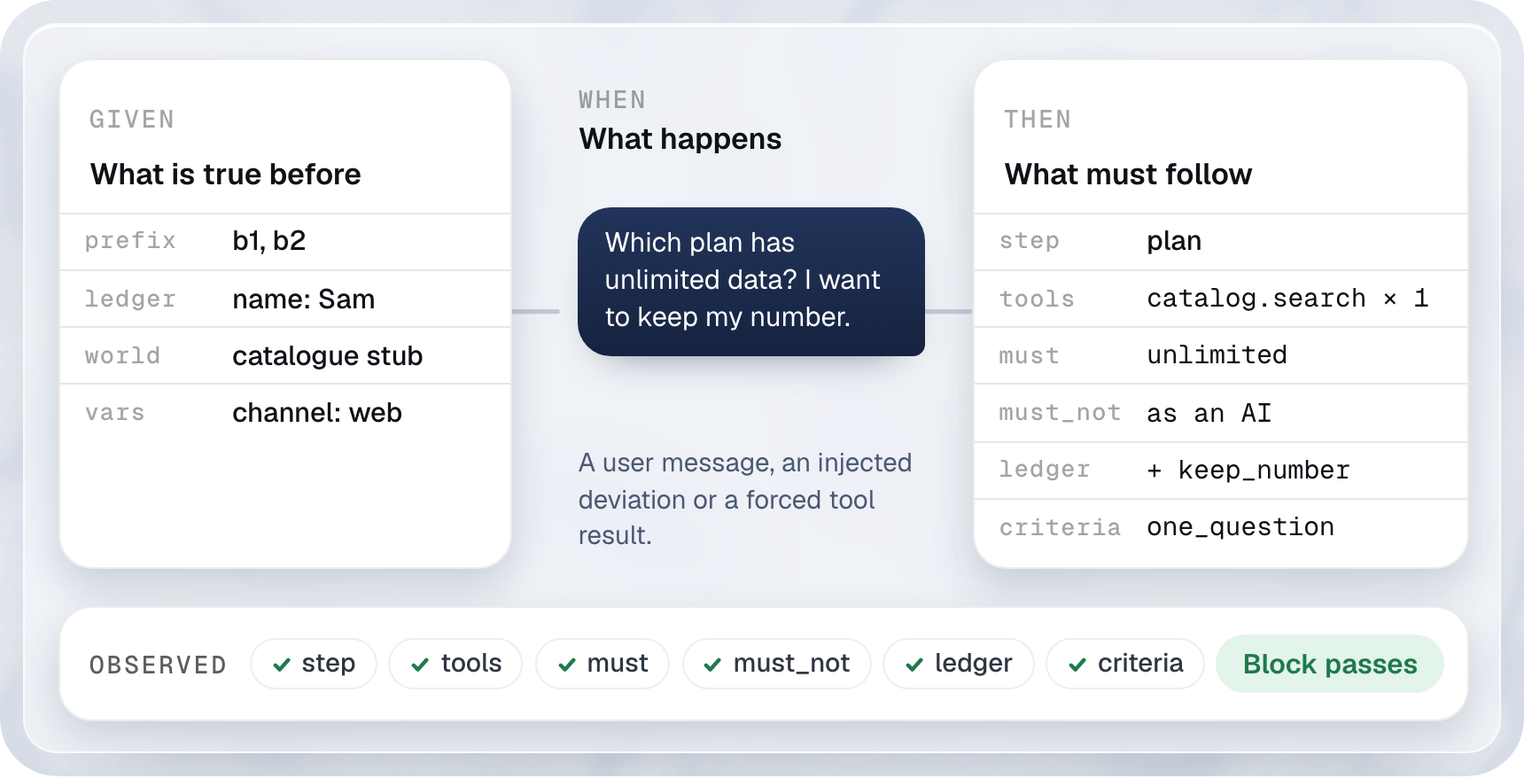
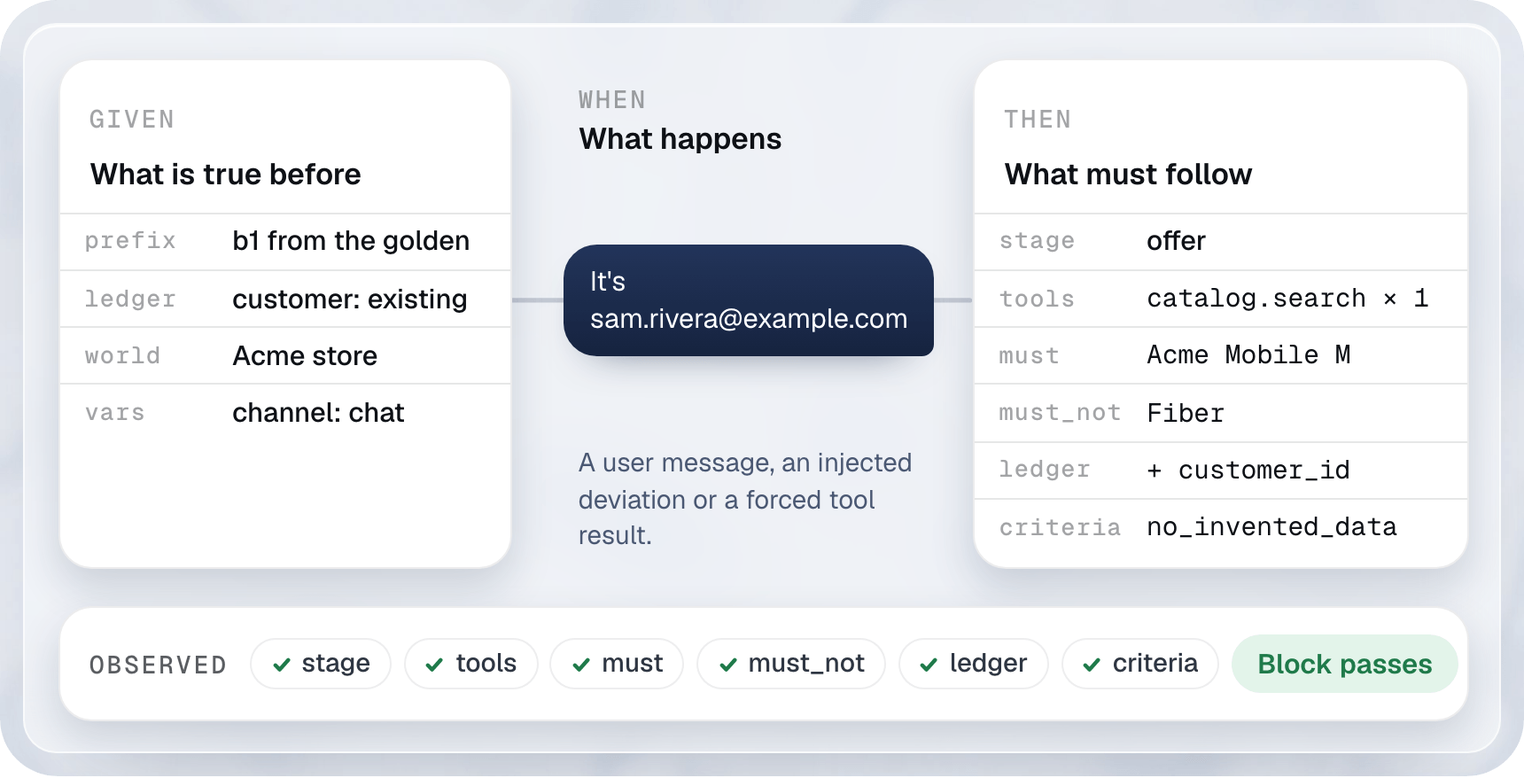
README: match the Acme example and the stage field now on main
The spec snippet is now the first two blocks of the Acme plan upgrade
spec; it passes spec lint --strict on main. Main renamed the expect
field step to stage, so the prose and the figures say stage. The block
figure shows that spec's second block, the agent kinds figure shows the
Acme agent's real tool call and reply at block four and the price sheet
task's real files, and the modes figure uses the real golden.

diff --git a/.github/readme/src/kinds.html b/.github/readme/src/kinds.html
@@ -5,11 +5,12 @@
 <title>driftbench: one block model for both kinds of agent</title>
 <link rel="stylesheet" href="brand.css">
 <style>
-  /* Left: a conversational block. Right: a code interpreter task step. Same checks, read the same way. */
+  /* Left: block 4 of examples/acme/specs/conversations/plan-upgrade.yaml, with the Acme agent's real tool call and reply.
+     Right: the first block of examples/acme/specs/tasks/price-sheet.yaml, drawn from its expect. */
   #frame { width: 640px; height: 352px; }
   .side-k { top: 18px; }
   .side-t { position: absolute; top: 34px; font: 600 12.5px/1.25 var(--nx-sans); color: var(--nx-ink); }
-  .tool { left: 16px; top: 118px; gap: 8px; }
+  .tool { left: 16px; top: 104px; gap: 8px; }
   .tool .m { font: 500 11px/1 var(--nx-mono); }
   .tool .ok { color: var(--nx-done-ink); font-weight: 600; }
   .run { left: 336px; top: 100px; width: 270px; }
@@ -35,33 +36,33 @@
     <span class="nx-kind nx-kind--ink side-k" style="left:16px">Conversational agent</span>
     <span class="nx-kind side-k" style="left:268px">b4</span>
     <div class="side-t" style="left:16px">A block is one exchange</div>
-    <div class="nx-ibub nx-ibub--me" style="right:326px;top:64px">Can I keep my number if I switch?</div>
-    <span class="nx-ipill nx-ipill--flat tool"><span class="m">porting.check</span><span class="ok">eligible</span></span>
-    <div class="nx-ibub nx-ibub--agent" style="left:16px;top:154px;width:214px">Yes. Your number moves with you. Shall I add it to the order?</div>
+    <div class="nx-ibub nx-ibub--me" style="right:326px;top:62px">Confirm</div>
+    <span class="nx-ipill nx-ipill--flat tool"><span class="m">order.create</span><span class="ok">ORD-7B883C</span></span>
+    <div class="nx-ibub nx-ibub--agent" style="left:16px;top:140px;width:262px">Done. Your order ORD-7B883C is placed: Acme Mobile L starts on your next billing cycle. Is there anything else I can help with?</div>
     <div class="nx-ill-panel checks" style="left:14px">
       <span class="nx-kind">Checked</span>
       <div class="row">
-        <span class="chk"><svg viewBox="0 0 10 10" fill="none" stroke="currentColor" stroke-width="1.8" stroke-linecap="round" stroke-linejoin="round"><path d="M2 5.3l2 2L8 2.8"/></svg>step</span>
+        <span class="chk"><svg viewBox="0 0 10 10" fill="none" stroke="currentColor" stroke-width="1.8" stroke-linecap="round" stroke-linejoin="round"><path d="M2 5.3l2 2L8 2.8"/></svg>stage</span>
         <span class="chk"><svg viewBox="0 0 10 10" fill="none" stroke="currentColor" stroke-width="1.8" stroke-linecap="round" stroke-linejoin="round"><path d="M2 5.3l2 2L8 2.8"/></svg>tool call</span>
-        <span class="chk"><svg viewBox="0 0 10 10" fill="none" stroke="currentColor" stroke-width="1.8" stroke-linecap="round" stroke-linejoin="round"><path d="M2 5.3l2 2L8 2.8"/></svg>language</span>
-        <span class="chk"><svg viewBox="0 0 10 10" fill="none" stroke="currentColor" stroke-width="1.8" stroke-linecap="round" stroke-linejoin="round"><path d="M2 5.3l2 2L8 2.8"/></svg>ledger</span>
-        <span class="chk"><svg viewBox="0 0 10 10" fill="none" stroke="currentColor" stroke-width="1.8" stroke-linecap="round" stroke-linejoin="round"><path d="M2 5.3l2 2L8 2.8"/></svg>one question</span>
+        <span class="chk"><svg viewBox="0 0 10 10" fill="none" stroke="currentColor" stroke-width="1.8" stroke-linecap="round" stroke-linejoin="round"><path d="M2 5.3l2 2L8 2.8"/></svg>guard</span>
+        <span class="chk"><svg viewBox="0 0 10 10" fill="none" stroke="currentColor" stroke-width="1.8" stroke-linecap="round" stroke-linejoin="round"><path d="M2 5.3l2 2L8 2.8"/></svg>order id</span>
+        <span class="chk"><svg viewBox="0 0 10 10" fill="none" stroke="currentColor" stroke-width="1.8" stroke-linecap="round" stroke-linejoin="round"><path d="M2 5.3l2 2L8 2.8"/></svg>end state</span>
       </div>
     </div>
 
     <!-- code interpreter agent -->
     <span class="nx-kind nx-kind--ink side-k" style="left:336px">Code interpreter agent</span>
-    <span class="nx-kind side-k" style="left:560px">step 2</span>
+    <span class="nx-kind side-k" style="left:590px">b1</span>
     <div class="side-t" style="left:336px">A block is one task step</div>
-    <div class="nx-ibub nx-ibub--me" style="right:14px;top:64px;white-space:nowrap">Build the Q3 price sheet from plans.csv.</div>
-    <div class="nx-node run"><span class="nx-node__ico"><svg viewBox="0 0 24 24" fill="none" stroke="currentColor" stroke-width="1.8" stroke-linecap="round" stroke-linejoin="round"><path d="M13 2 4 14h7l-1 8 9-12h-7z"/></svg></span><span class="nx-node__kind">Skill: spreadsheets</span><span class="nx-node__title">python build_sheet.py</span><span class="nx-node__detail">exit 0</span></div>
-    <div class="nx-ill-panel files"><div class="add">+ q3_prices.xlsx</div><div>plans.csv, notes.md untouched</div></div>
+    <div class="nx-ibub nx-ibub--me" style="right:14px;top:62px;white-space:nowrap">Build a price sheet from catalog.csv.</div>
+    <div class="nx-node run"><span class="nx-node__ico"><svg viewBox="0 0 24 24" fill="none" stroke="currentColor" stroke-width="1.8" stroke-linecap="round" stroke-linejoin="round"><path d="M13 2 4 14h7l-1 8 9-12h-7z"/></svg></span><span class="nx-node__kind">Skill: xlsx</span><span class="nx-node__title">runs code</span><span class="nx-node__detail">exit 0, 10 commands at most</span></div>
+    <div class="nx-ill-panel files"><div class="add">+ out/acme-price-sheet.xlsx</div><div>catalog.csv, README.txt untouched</div></div>
     <div class="nx-ill-panel checks" style="left:320px">
       <span class="nx-kind">Checked</span>
       <div class="row">
-        <span class="chk"><svg viewBox="0 0 10 10" fill="none" stroke="currentColor" stroke-width="1.8" stroke-linecap="round" stroke-linejoin="round"><path d="M2 5.3l2 2L8 2.8"/></svg>cells and formulas</span>
+        <span class="chk"><svg viewBox="0 0 10 10" fill="none" stroke="currentColor" stroke-width="1.8" stroke-linecap="round" stroke-linejoin="round"><path d="M2 5.3l2 2L8 2.8"/></svg>sheets and cells</span>
         <span class="chk"><svg viewBox="0 0 10 10" fill="none" stroke="currentColor" stroke-width="1.8" stroke-linecap="round" stroke-linejoin="round"><path d="M2 5.3l2 2L8 2.8"/></svg>workspace diff</span>
-        <span class="chk"><svg viewBox="0 0 10 10" fill="none" stroke="currentColor" stroke-width="1.8" stroke-linecap="round" stroke-linejoin="round"><path d="M2 5.3l2 2L8 2.8"/></svg>exit code</span>
+        <span class="chk"><svg viewBox="0 0 10 10" fill="none" stroke="currentColor" stroke-width="1.8" stroke-linecap="round" stroke-linejoin="round"><path d="M2 5.3l2 2L8 2.8"/></svg>yearly formula</span>
         <span class="chk"><svg viewBox="0 0 10 10" fill="none" stroke="currentColor" stroke-width="1.8" stroke-linecap="round" stroke-linejoin="round"><path d="M2 5.3l2 2L8 2.8"/></svg>no destructive op</span>
       </div>
     </div>

diff --git a/.github/readme/src/block.html b/.github/readme/src/block.html
@@ -5,7 +5,8 @@
 <title>driftbench: a block is a unit test</title>
 <link rel="stylesheet" href="brand.css">
 <style>
-  /* One block read left to right: Given, When, Then, and what was observed. */
+  /* One block read left to right: Given, When, Then, and what was observed. The block is the second block of
+     examples/acme/specs/conversations/plan-upgrade.yaml; the Then rows are fields of its expect. */
   #frame { width: 640px; height: 326px; }
   .panel { top: 14px; height: 214px; padding: 12px 0 0; }
   .panel .head { padding: 0 12px 8px; }
@@ -28,36 +29,36 @@
 <div id="frame" class="nx-ill scene">
   <div class="nx-ill__glass">
     <svg class="nx-edges" viewBox="0 0 620 306">
-      <path class="nx-edge" d="M204 121 L224 121"/>
-      <path class="nx-edge" d="M378 121 L398 121"/>
+      <path id="edge-in" class="nx-edge" d=""/>
+      <path id="edge-out" class="nx-edge" d=""/>
     </svg>
 
     <div class="nx-ill-panel panel given">
       <div class="head"><span class="nx-kind nx-kind--static">Given</span><div class="t">What is true before</div></div>
-      <div class="nx-irow"><span class="k">prefix</span><span class="v">b1, b2</span></div>
-      <div class="nx-irow"><span class="k">ledger</span><span class="v">name: Sam</span></div>
-      <div class="nx-irow"><span class="k">world</span><span class="v">catalogue stub</span></div>
-      <div class="nx-irow"><span class="k">vars</span><span class="v">channel: web</span></div>
+      <div class="nx-irow"><span class="k">prefix</span><span class="v">b1 from the golden</span></div>
+      <div class="nx-irow"><span class="k">ledger</span><span class="v">customer: existing</span></div>
+      <div class="nx-irow"><span class="k">world</span><span class="v">Acme store</span></div>
+      <div class="nx-irow"><span class="k">vars</span><span class="v">channel: chat</span></div>
     </div>
 
     <span class="nx-kind when-k">When</span>
     <div class="when-t">What happens</div>
-    <div class="nx-ibub nx-ibub--me" style="left:232px;top:76px;width:146px">Which plan has unlimited data? I want to keep my number.</div>
+    <div id="ask" class="nx-ibub nx-ibub--me" style="left:226px;top:92px;width:fit-content">It's<br>sam.rivera@example.com</div>
     <div class="note">A user message, an injected deviation or a forced tool result.</div>
 
     <div class="nx-ill-panel panel then">
       <div class="head"><span class="nx-kind nx-kind--static">Then</span><div class="t">What must follow</div></div>
-      <div class="nx-irow"><span class="k">step</span><span class="v">plan</span></div>
+      <div class="nx-irow"><span class="k">stage</span><span class="v">offer</span></div>
       <div class="nx-irow"><span class="k">tools</span><span class="v m">catalog.search × 1</span></div>
-      <div class="nx-irow"><span class="k">must</span><span class="v m">unlimited</span></div>
-      <div class="nx-irow"><span class="k">must_not</span><span class="v m">as an AI</span></div>
-      <div class="nx-irow"><span class="k">ledger</span><span class="v m">+ keep_number</span></div>
-      <div class="nx-irow"><span class="k">criteria</span><span class="v m">one_question</span></div>
+      <div class="nx-irow"><span class="k">must</span><span class="v m">Acme Mobile M</span></div>
+      <div class="nx-irow"><span class="k">must_not</span><span class="v m">Fiber</span></div>
+      <div class="nx-irow"><span class="k">ledger</span><span class="v m">+ customer_id</span></div>
+      <div class="nx-irow"><span class="k">criteria</span><span class="v m">no_invented_data</span></div>
     </div>
 
     <div class="nx-ill-panel obs">
       <span class="nx-kind nx-kind--ink">Observed</span>
-      <span class="chk"><svg viewBox="0 0 10 10" fill="none" stroke="currentColor" stroke-width="1.8" stroke-linecap="round" stroke-linejoin="round"><path d="M2 5.3l2 2L8 2.8"/></svg>step</span>
+      <span class="chk"><svg viewBox="0 0 10 10" fill="none" stroke="currentColor" stroke-width="1.8" stroke-linecap="round" stroke-linejoin="round"><path d="M2 5.3l2 2L8 2.8"/></svg>stage</span>
       <span class="chk"><svg viewBox="0 0 10 10" fill="none" stroke="currentColor" stroke-width="1.8" stroke-linecap="round" stroke-linejoin="round"><path d="M2 5.3l2 2L8 2.8"/></svg>tools</span>
       <span class="chk"><svg viewBox="0 0 10 10" fill="none" stroke="currentColor" stroke-width="1.8" stroke-linecap="round" stroke-linejoin="round"><path d="M2 5.3l2 2L8 2.8"/></svg>must</span>
       <span class="chk"><svg viewBox="0 0 10 10" fill="none" stroke="currentColor" stroke-width="1.8" stroke-linecap="round" stroke-linejoin="round"><path d="M2 5.3l2 2L8 2.8"/></svg>must_not</span>
@@ -69,7 +70,17 @@
 </div>
 <script>
   window.__fonts = ['400 11px Geist', '500 11px Geist', '600 12px Geist', '500 10px "Geist Mono"', '400 11px "Geist Mono"'];
-  Promise.all(window.__fonts.map((f) => document.fonts.load(f))).then(() => document.fonts.ready).then(() => { window.__ready = true; });
+  // The two connectors run from the panels to the message bubble, measured once the fonts have loaded.
+  function edges() {
+    const g = document.querySelector('.nx-ill__glass').getBoundingClientRect();
+    const z = g.width / 620;
+    const ask = document.getElementById('ask').getBoundingClientRect();
+    const y = ((ask.top + ask.bottom) / 2 - g.top) / z;
+    const left = (ask.left - g.left) / z, right = (ask.right - g.left) / z;
+    document.getElementById('edge-in').setAttribute('d', 'M204 ' + y + ' L' + left + ' ' + y);
+    document.getElementById('edge-out').setAttribute('d', 'M' + right + ' ' + y + ' L398 ' + y);
+  }
+  Promise.all(window.__fonts.map((f) => document.fonts.load(f))).then(() => document.fonts.ready).then(() => { edges(); window.__ready = true; });
 </script>
 </body>
 </html>

diff --git a/.github/readme/src/modes.html b/.github/readme/src/modes.html
@@ -5,11 +5,11 @@
 <title>driftbench: one golden, three runs</title>
 <link rel="stylesheet" href="brand.css">
 <style>
-  /* One golden feeds three runs. Each run shows four blocks and the one quantity it isolates. */
+  /* One golden, the plan upgrade spec of the Acme example, feeds three runs. Each run shows four blocks and the one quantity it isolates. */
   #frame { width: 640px; height: 348px; }
-  .golden { left: 14px; top: 89px; width: 136px; padding: 11px 0 4px; }
+  .golden { left: 14px; top: 89px; width: 148px; padding: 11px 0 4px; }
   .golden .head { padding: 0 12px 8px; }
-  .golden .id { margin-top: 6px; font: 500 11px/1.2 var(--nx-mono); color: var(--nx-ink); }
+  .golden .id { margin-top: 6px; font: 500 10.5px/1.2 var(--nx-mono); color: var(--nx-ink); white-space: nowrap; }
   .golden .nx-irow { min-height: 24px; }
   .golden .nx-irow .k { width: 22px; }
   .golden .nx-irow .v { color: var(--detail); font-weight: 400; }
@@ -31,17 +31,17 @@
   <div class="nx-ill__glass">
     <svg class="nx-edges" viewBox="0 0 620 328">
       <!-- golden to each run -->
-      <path class="nx-edge" d="M150 164 C166 164 164 58 180 58"/>
-      <path class="nx-edge" d="M150 164 L180 164"/>
-      <path class="nx-edge" d="M150 164 C166 164 164 270 180 270"/>
+      <path class="nx-edge" d="M162 164 C173 164 169 58 180 58"/>
+      <path class="nx-edge" d="M162 164 L180 164"/>
+      <path class="nx-edge" d="M162 164 C173 164 169 270 180 270"/>
     </svg>
 
     <div class="nx-ill-panel golden">
-      <div class="head"><span class="nx-kind nx-kind--static">Golden</span><div class="id">acme.order_flow</div></div>
-      <div class="nx-irow"><span class="k">b1</span><span class="v">greet</span></div>
-      <div class="nx-irow"><span class="k">b2</span><span class="v">plan</span></div>
-      <div class="nx-irow"><span class="k">b3</span><span class="v">identity</span></div>
-      <div class="nx-irow"><span class="k">b4</span><span class="v">recap</span></div>
+      <div class="head"><span class="nx-kind nx-kind--static">Golden</span><div class="id">acme-plan-upgrade</div></div>
+      <div class="nx-irow"><span class="k">b1</span><span class="v">identify</span></div>
+      <div class="nx-irow"><span class="k">b2</span><span class="v">offer</span></div>
+      <div class="nx-irow"><span class="k">b3</span><span class="v">recap</span></div>
+      <div class="nx-irow"><span class="k">b4</span><span class="v">order placed</span></div>
     </div>
 
     <!-- teacher forced -->

diff --git a/.github/readme/src/perturbed.html b/.github/readme/src/perturbed.html
@@ -42,12 +42,12 @@
     <span class="spark" style="left:254.5px;top:61px"></span>
     <div class="shift"><span class="nx-kind nx-kind--ink">Goal shift</span><q>Make it two lines.</q></div>
 
-    <div class="nx-node nx-node--noico b" style="left:14px;top:92px"><span class="nx-node__kind">b1</span><span class="nx-node__title">greet</span><span class="nx-node__detail">on step</span></div>
-    <div class="nx-node nx-node--noico b" style="left:114px;top:92px"><span class="nx-node__kind">b2</span><span class="nx-node__title">plan</span><span class="nx-node__detail">on step</span></div>
+    <div class="nx-node nx-node--noico b" style="left:14px;top:92px"><span class="nx-node__kind">b1</span><span class="nx-node__title">greet</span><span class="nx-node__detail">right stage</span></div>
+    <div class="nx-node nx-node--noico b" style="left:114px;top:92px"><span class="nx-node__kind">b2</span><span class="nx-node__title">plan</span><span class="nx-node__detail">right stage</span></div>
     <div class="nx-node nx-node--noico b" style="left:214px;top:144px"><span class="nx-node__kind">b3</span><span class="nx-node__title">plan</span><span class="nx-node__detail">asks for ID</span></div>
     <div class="nx-node nx-node--noico b" style="left:314px;top:120px"><span class="nx-node__kind">b4</span><span class="nx-node__title">identity</span><span class="nx-node__detail">says one line</span></div>
-    <div class="nx-node nx-node--noico b" style="left:414px;top:92px"><span class="nx-node__kind">b5</span><span class="nx-node__title">recap</span><span class="nx-node__detail">on step</span></div>
-    <div class="nx-node nx-node--noico b" style="left:514px;top:92px"><span class="nx-node__kind">b6</span><span class="nx-node__title">submit</span><span class="nx-node__detail">on step</span></div>
+    <div class="nx-node nx-node--noico b" style="left:414px;top:92px"><span class="nx-node__kind">b5</span><span class="nx-node__title">recap</span><span class="nx-node__detail">right stage</span></div>
+    <div class="nx-node nx-node--noico b" style="left:514px;top:92px"><span class="nx-node__kind">b6</span><span class="nx-node__title">submit</span><span class="nx-node__detail">right stage</span></div>
 
     <span class="nx-ipill nx-center" style="left:258px;top:228px">X3 flow drift</span>
     <span class="nx-ipill nx-center" style="left:358px;top:204px">X2 contradiction</span>

diff --git a/.github/readme/src/hero.html b/.github/readme/src/hero.html
@@ -83,12 +83,12 @@
       <span class="spark" style="left:263.5px;top:76px"></span>
       <div class="shift"><b>Goal shift</b><span class="q">“Make it two lines.”</span></div>
 
-      <div class="nx-node nx-node--noico b" style="left:22px;top:118px"><span class="nx-node__kind">b1</span><span class="nx-node__title">greet</span><span class="nx-node__detail">on step</span></div>
-      <div class="nx-node nx-node--noico b" style="left:122px;top:118px"><span class="nx-node__kind">b2</span><span class="nx-node__title">plan</span><span class="nx-node__detail">on step</span></div>
+      <div class="nx-node nx-node--noico b" style="left:22px;top:118px"><span class="nx-node__kind">b1</span><span class="nx-node__title">greet</span><span class="nx-node__detail">right stage</span></div>
+      <div class="nx-node nx-node--noico b" style="left:122px;top:118px"><span class="nx-node__kind">b2</span><span class="nx-node__title">plan</span><span class="nx-node__detail">right stage</span></div>
       <div class="nx-node nx-node--noico b" style="left:222px;top:170px"><span class="nx-node__kind">b3</span><span class="nx-node__title">plan</span><span class="nx-node__detail">asks for ID</span></div>
       <div class="nx-node nx-node--noico b" style="left:322px;top:144px"><span class="nx-node__kind">b4</span><span class="nx-node__title">identity</span><span class="nx-node__detail">says one line</span></div>
-      <div class="nx-node nx-node--noico b" style="left:422px;top:118px"><span class="nx-node__kind">b5</span><span class="nx-node__title">recap</span><span class="nx-node__detail">on step</span></div>
-      <div class="nx-node nx-node--noico b" style="left:522px;top:118px"><span class="nx-node__kind">b6</span><span class="nx-node__title">submit</span><span class="nx-node__detail">on step</span></div>
+      <div class="nx-node nx-node--noico b" style="left:422px;top:118px"><span class="nx-node__kind">b5</span><span class="nx-node__title">recap</span><span class="nx-node__detail">right stage</span></div>
+      <div class="nx-node nx-node--noico b" style="left:522px;top:118px"><span class="nx-node__kind">b6</span><span class="nx-node__title">submit</span><span class="nx-node__detail">right stage</span></div>
 
       <span class="pill" style="left:267px;top:254px">X3 flow drift</span>
       <span class="pill" style="left:367px;top:230px">X2 contradiction</span>

diff --git a/README.md b/README.md
@@ -45,33 +45,56 @@ pnpm driftbench spec validate examples/acme/specs
 
 The last command loads the Acme Telecom specs and validates them against the spec schema. Acme Telecom is the synthetic sales assistant behind every example. No API key needed.
 
-A spec is one golden conversation, written as blocks in YAML. This one has a single block:
+A spec is one golden conversation, written as blocks in YAML. These are the first two of the five blocks in [`plan-upgrade.yaml`](examples/acme/specs/conversations/plan-upgrade.yaml):
 
 ```yaml
-id: acme.upgrade_plan
-version: "1"
-kind: conversation
+id: acme-plan-upgrade
+title: An existing customer moves to a plan with more data
+channel: chat
 lang: EN
+target: { adapter: function, agent: acme-sales }
+ledger_seed:
+  customer: existing
+  lang: EN
+stages: [identify, offer, recap, order_placed, callback, handover, closing]
+
 criteria:
-  - name: one_question
-    rubric: The reply asks one question at most.
+  - name: one_question_per_turn
+    rubric: The reply asks the customer at most one question.
+    judge_class: system1
+  - name: no_invented_data
+    rubric: >
+      Every plan, price, order number and account fact in the reply
+      comes from a tool result or from the customer. Nothing is guessed.
+    gating: true
+    judge_class: system2
+
 blocks:
-  - when:
-      user: >
-        Which plan has unlimited data?
-        I want to keep my number.
+  - user: Hi, I'm already an Acme customer and I keep running out of data on my phone.
     expect:
-      step: plan
+      stage: identify
+      tools:
+        - { label: catalog.search, count: 0 }
+      must: ['Acme Telecom', 'email address']
+      criteria: [one_question_per_turn]
+
+  - user: It's sam.rivera@example.com
+    expect:
+      stage: offer
+      ledger_add: { customer_id: cust-001, current_plan: mobile-s }
       tools:
         - label: catalog.search
           count: 1
-      must: [unlimited]
-      must_not: [as an AI]
-      ledger_add:
-        keep_number: true
-      criteria:
-        - one_question@gating
+          input:
+            category: mobile
+            customer_email: sam.rivera@example.com
+            address_id: { absent: true }
+      must: ['Acme Mobile M', 'Acme Mobile L', '\$25', '\$35']
+      must_not: ['Fiber', 'Air 5G']
+      criteria: [no_invented_data@gating, one_question_per_turn]
 ```
+
+Until the Phase 1 runner lands, `pnpm vitest run examples/acme` drives every Acme conversation through the agent and checks tools, text, stages, guards, the end state and the recovery after each deviation.
 
 ---
 
@@ -111,20 +134,20 @@ This section describes the design. Phase 0 builds the spec format now. The runne
 <a href=".github/readme/block-light.png">
   <picture>
     <source media="(prefers-color-scheme: dark)" srcset=".github/readme/block-dark.png">
-    <img alt="One block in three parts. Given: earlier blocks, the facts so far, a catalogue stub, the channel. When: the user asks which plan has unlimited data and says they want to keep their number. Then: step plan, one catalogue search, the word unlimited, no robotic phrasing, a new fact in the ledger, the one question criterion. Below, every observed field passes and the block passes." src=".github/readme/block-light.png" width="100%">
+    <img alt="The second block of the plan upgrade spec in three parts. Given: the first block, an existing customer, the Acme store, the chat channel. When: the user gives the email on their account. Then: stage offer, one catalogue search, both larger plans named, no home plans, the customer id added to the ledger, the no invented data criterion. Below, every observed field passes and the block passes." src=".github/readme/block-light.png" width="100%">
   </picture>
 </a>
-<p align="center"><sub>Given the state so far, when the user speaks, then the agent must reach the right step, call the right tools and say nothing it must not.</sub></p>
+<p align="center"><sub>Given the state so far, when the user speaks, then the agent must reach the right stage, call the right tools and say nothing it must not.</sub></p>
 
 A block holds everything the agent does between two user messages: text, cards, tool calls and tool results. The spec fixes what must be true after it. driftbench reads what happened, compares it field by field, and keeps the evidence behind every verdict. Run one block many times from the same Given and you get its own pass rate, free of the blocks before it.
 
 <a href=".github/readme/kinds-light.png">
   <picture>
     <source media="(prefers-color-scheme: dark)" srcset=".github/readme/kinds-dark.png">
-    <img alt="The same block model for two agents. Left, a conversational agent: the user asks to keep their number, the agent checks porting eligibility and answers; step, tool call, language, ledger and one question are checked. Right, a code interpreter agent: the user asks for a price sheet, the agent loads a spreadsheet skill, runs a script that exits cleanly, creates one file and leaves the others untouched; cells and formulas, workspace diff, exit code and no destructive operation are checked." src=".github/readme/kinds-light.png" width="100%">
+    <img alt="The same block model for two agents. Left, the Acme sales assistant at block four: the user replies CONFIRM, the agent places the order and gives its order number; stage, tool call, confirmation guard, text and end state are checked. Right, a code interpreter agent at the first block of the price sheet task: it loads the xlsx skill, runs code that exits with 0, creates the price sheet workbook and leaves the other files untouched; sheets and cells, the formula, the workspace diff and no destructive operation are checked." src=".github/readme/kinds-light.png" width="100%">
   </picture>
 </a>
-<p align="center"><sub>One block model for both kinds of agent. The same checks read a reply, a tool call or a file.</sub></p>
+<p align="center"><sub>One block model for both kinds of agent. Left, the Acme agent's real reply. The same checks read a reply, a tool call or a file.</sub></p>
 
 When the agent writes code, uses a workspace and loads skills, a block is one task step, run in a sandbox. The same checks then read what the step left behind:
 
@@ -141,7 +164,7 @@ Agent harnesses add a runtime battery: hook replay with negative controls, skill
 <a href=".github/readme/modes-light.png">
   <picture>
     <source media="(prefers-color-scheme: dark)" srcset=".github/readme/modes-dark.png">
-    <img alt="One golden feeds three runs. Teacher forced: each block starts from the golden, so a miss stays local; it measures local accuracy. Free running: the agent's own replies carry forward, one miss leads to another; it measures compounding. Perturbed: a deviation lands at block two and the agent is back one block later; it measures recovery." src=".github/readme/modes-light.png" width="100%">
+    <img alt="One golden, the plan upgrade spec, feeds three runs. Teacher forced: each block starts from the golden, so a miss stays local; it measures local accuracy. Free running: the agent's own replies carry forward, one miss leads to another; it measures compounding. Perturbed: a deviation lands at block two and the agent is back one block later; it measures recovery." src=".github/readme/modes-light.png" width="100%">
   </picture>
 </a>
 <p align="center"><sub>Teacher forced isolates each block. Free running lets errors compound. Perturbed injects a deviation and measures the way back.</sub></p>
@@ -170,7 +193,7 @@ Every failing block gets one or more drift classes:
 |---|---|
 | `X1` local error | a wrong answer or a wrong tool, facts intact |
 | `X2` contradiction | the reply contradicts a fact already established |
-| `X3` flow drift | the wrong step: skipped, repeated, or a known fact asked again |
+| `X3` flow drift | the wrong stage: skipped, repeated, or a known fact asked again |
 | `X4` format drift | narration, a language leak, a double send, channel rules broken |
 | `X5` tool drift | a call that is missing, extra, duplicated or wrongly filled |
 
